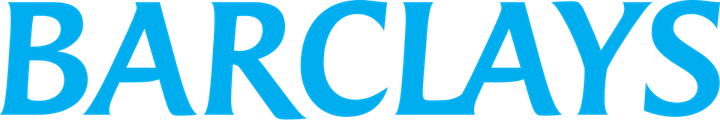
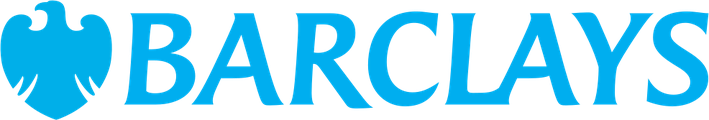
Web: logotipos completos y todos a la misma altura
Barclays iba sin el águila y Grant Thornton sin su símbolo: eran las versiones de solo
texto. Ahora van los lockups enteros. Y fuera el ajuste óptico uno a uno: los cinco a la
misma altura, cada uno con su anchura proporcional, como pidió Iván.

diff --git a/index.html b/index.html
@@ -126,16 +126,12 @@ header.pa-open .pa-panel{opacity:1;visibility:visible;transform:translateY(0)}
   mask-image:linear-gradient(90deg,transparent,#000 8%,#000 92%,transparent)}
 .pt-track{display:flex;align-items:center;gap:76px;width:max-content;animation:ptmove 38s linear infinite}
 .partners:hover .pt-track{animation-play-state:paused}
-.pt-track img{height:30px;width:auto;flex:none;filter:brightness(0) invert(1);opacity:.72;
+.pt-track img{height:34px;width:auto;flex:none;filter:brightness(0) invert(1);opacity:.72;
   transition:opacity .25s ease}
-/* ÓPTICAMENTE IGUALES, NO MATEMÁTICAMENTE IGUALES. A la misma altura, una marca compacta
-   —TDS, que lleva su rótulo debajo— se lee diminuta al lado de un logotipo largo como
-   Grant Thornton. Se ajusta uno a uno hasta que pesan lo mismo en la línea; es lo que
-   hace que cinco marcas ajenas parezcan una sola fila y no un collage. */
-.pt-track img[alt*="TDS"]{height:44px}
-.pt-track img[alt*="Grant"]{height:26px}
-.pt-track img[alt*="Stanbic"]{height:32px}
-.pt-track img[alt*="Barclays"]{height:26px}
+/* TODOS A LA MISMA ALTURA, cada uno con su anchura proporcional (Iván, 21-ago-2026:
+   "quiero que todos estén con el mismo tamaño proporcional"). Y con su logotipo COMPLETO:
+   el de Barclays llevaba solo la palabra, sin el águila, y el de Grant Thornton sin su
+   símbolo — ahora van los dos enteros. */
 .pt-track img:hover{opacity:1}
 @keyframes ptmove{from{transform:translateX(0)}to{transform:translateX(-50%)}}
 @media (prefers-reduced-motion:reduce){.pt-track{animation:none;justify-content:center;flex-wrap:wrap;gap:44px}}
